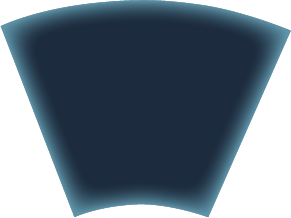
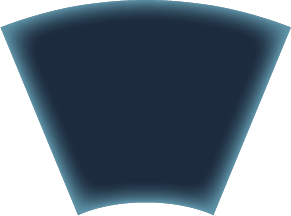
update wave animation and circle selecting frame

diff --git a/src/games/automata/components/MainMenuProgressBar.css b/src/games/automata/components/MainMenuProgressBar.css
@@ -69,23 +69,30 @@
 }
 
 @keyframes progressFrames {
-    0% { background-image: url('../images/MainMenu/wave1.png'); }
-    25% { background-image: url('../images/MainMenu/wave2.png'); }
-    50% { background-image: url('../images/MainMenu/wave3.png'); }
-    75% { background-image: url('../images/MainMenu/wave4.png'); }
-    100% { background-image: url('../images/MainMenu/wave1.png'); }
+    0% { background-image: url('../images/Animations/Waves/wave1.png'); }
+    12.5% { background-image: url('../images/Animations/Waves/wave2.png'); }
+    25% { background-image: url('../images/Animations/Waves/wave3.png'); }
+    37.5% { background-image: url('../images/Animations/Waves/wave4.png'); }
+    50% { background-image: url('../images/Animations/Waves/wave5.png'); }
+    62.5% { background-image: url('../images/Animations/Waves/wave6.png'); }
+    75% { background-image: url('../images/Animations/Waves/wave7.png'); }
+    87.5% { background-image: url('../images/Animations/Waves/wave8.png'); }
+    100% { background-image: url('../images/Animations/Waves/wave1.png'); }
 }
 
 .main-progress-sector-top {
-    height: 24px;
+    height: 14px;
     width: 100%;
     background-repeat: no-repeat;
     background-size: contain;
-    animation: progressFrames 0.5s steps(4) infinite;
+    animation: progressFrames 0.7s steps(4) infinite;
 }
 
 .main-progress-sector-repeat {
-    height: round(down, calc(100% - 24px), 1px);
+    position: absolute;
+    top: 14px;
+    width: 100%;
+    height: round(down, calc(100% - 14px), 1px);
     background-image: url('../images/MainMenu/progress.png');
     background-repeat: repeat-Y;
     background-size: contain;

diff --git a/src/games/automata/components/MainMenuSelectingFrame.tsx b/src/games/automata/components/MainMenuSelectingFrame.tsx
@@ -25,7 +25,7 @@ const MainMenuSelectingFrame = ({ order, isCurrentProgram, isStop }: Props) => {
   const currentFrameXPosition =
     50 + Math.cos((angle * Math.PI) / 180) * currentFrameRadius;
 
-  const selectingRadius = 29;
+  const selectingRadius = 30;
   const selectingYPosition =
     50 - Math.sin((angle * Math.PI) / 180) * selectingRadius;
   const selectingXPosition =

diff --git a/src/games/automata/components/MainMenuSelectingFrame.css b/src/games/automata/components/MainMenuSelectingFrame.css
@@ -17,7 +17,7 @@
     position: absolute;
     transform: translate(-50%, -50%);
     width: 145px;
-    height: 109px;
+    height: 108px;
 }
 
 .main-selecting-frame-image {
